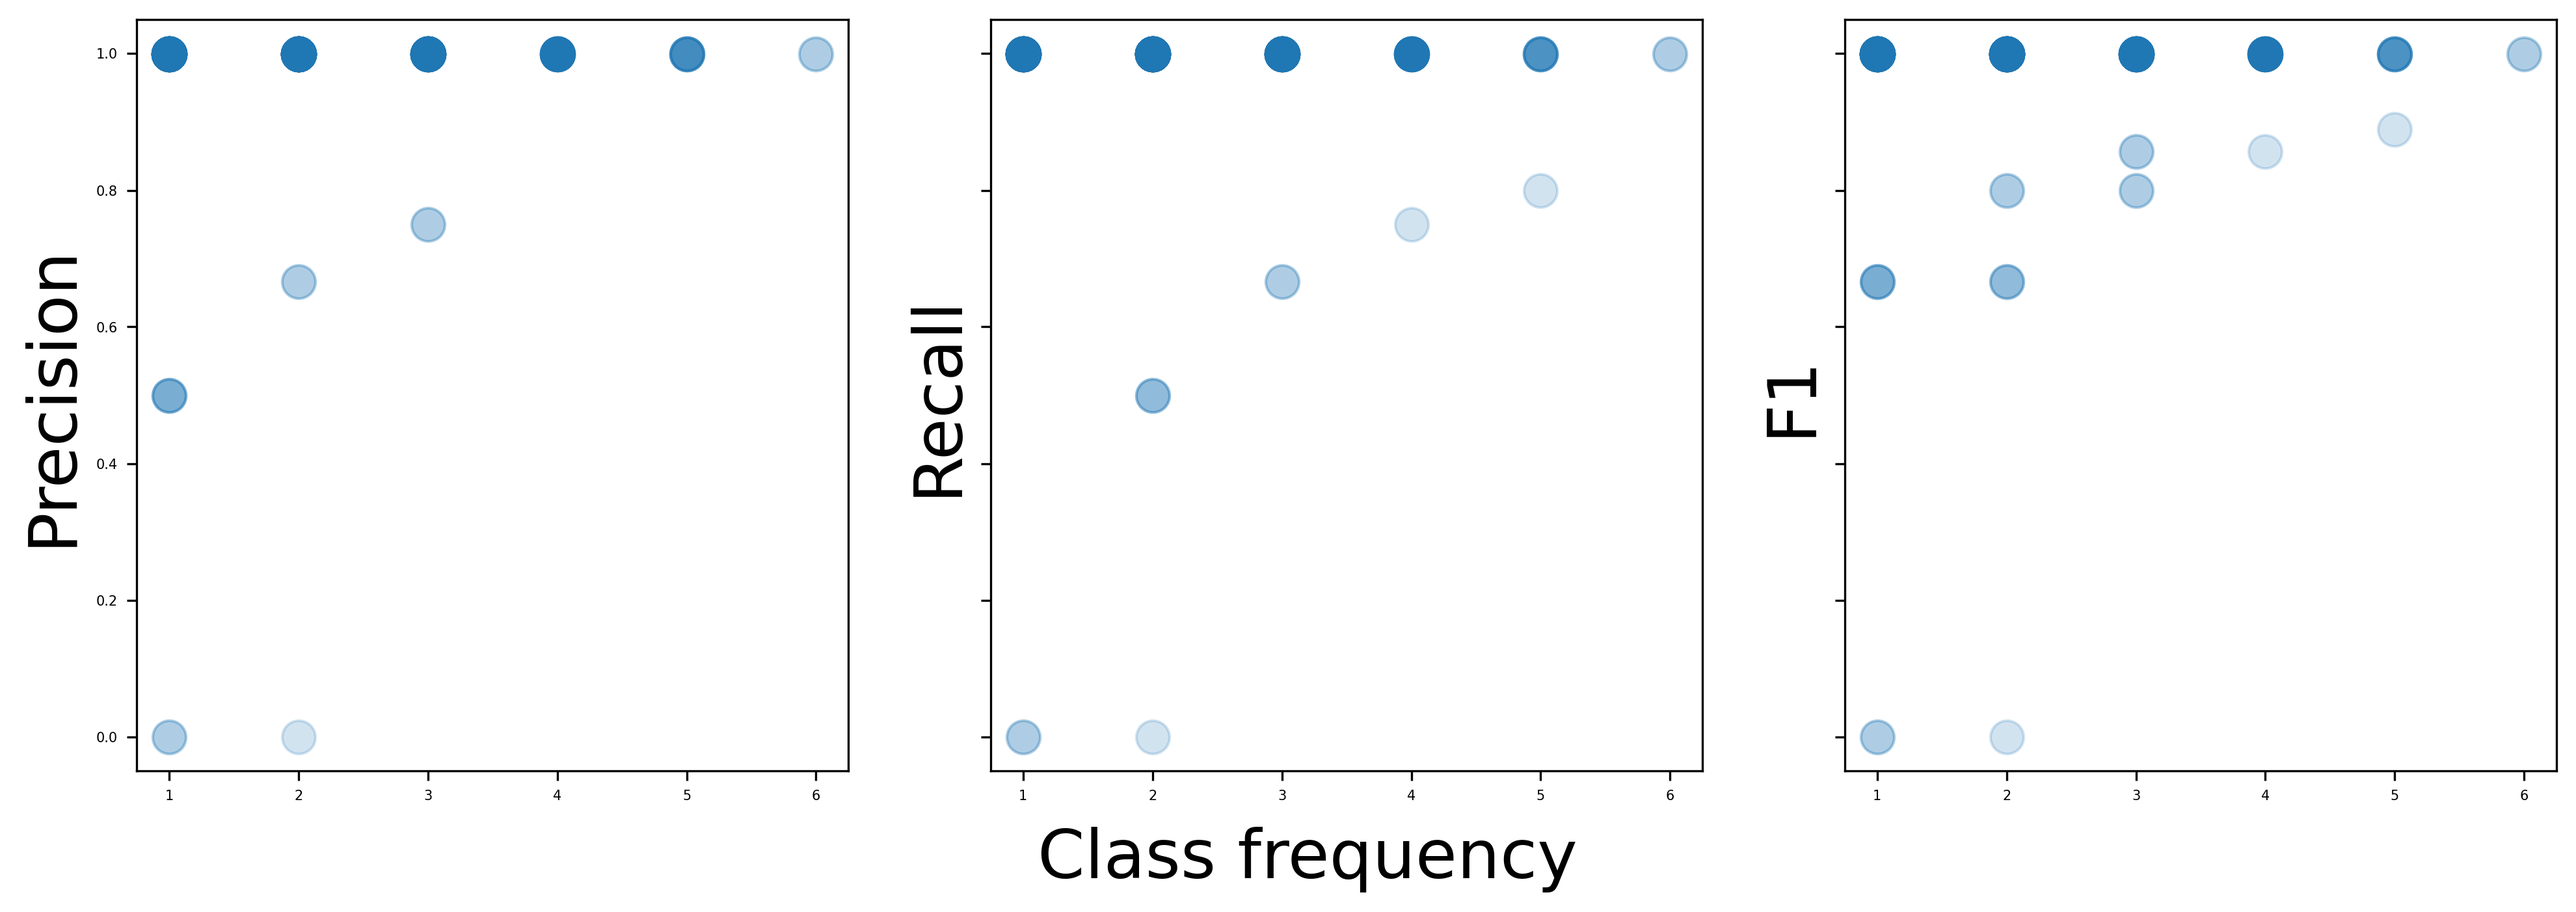
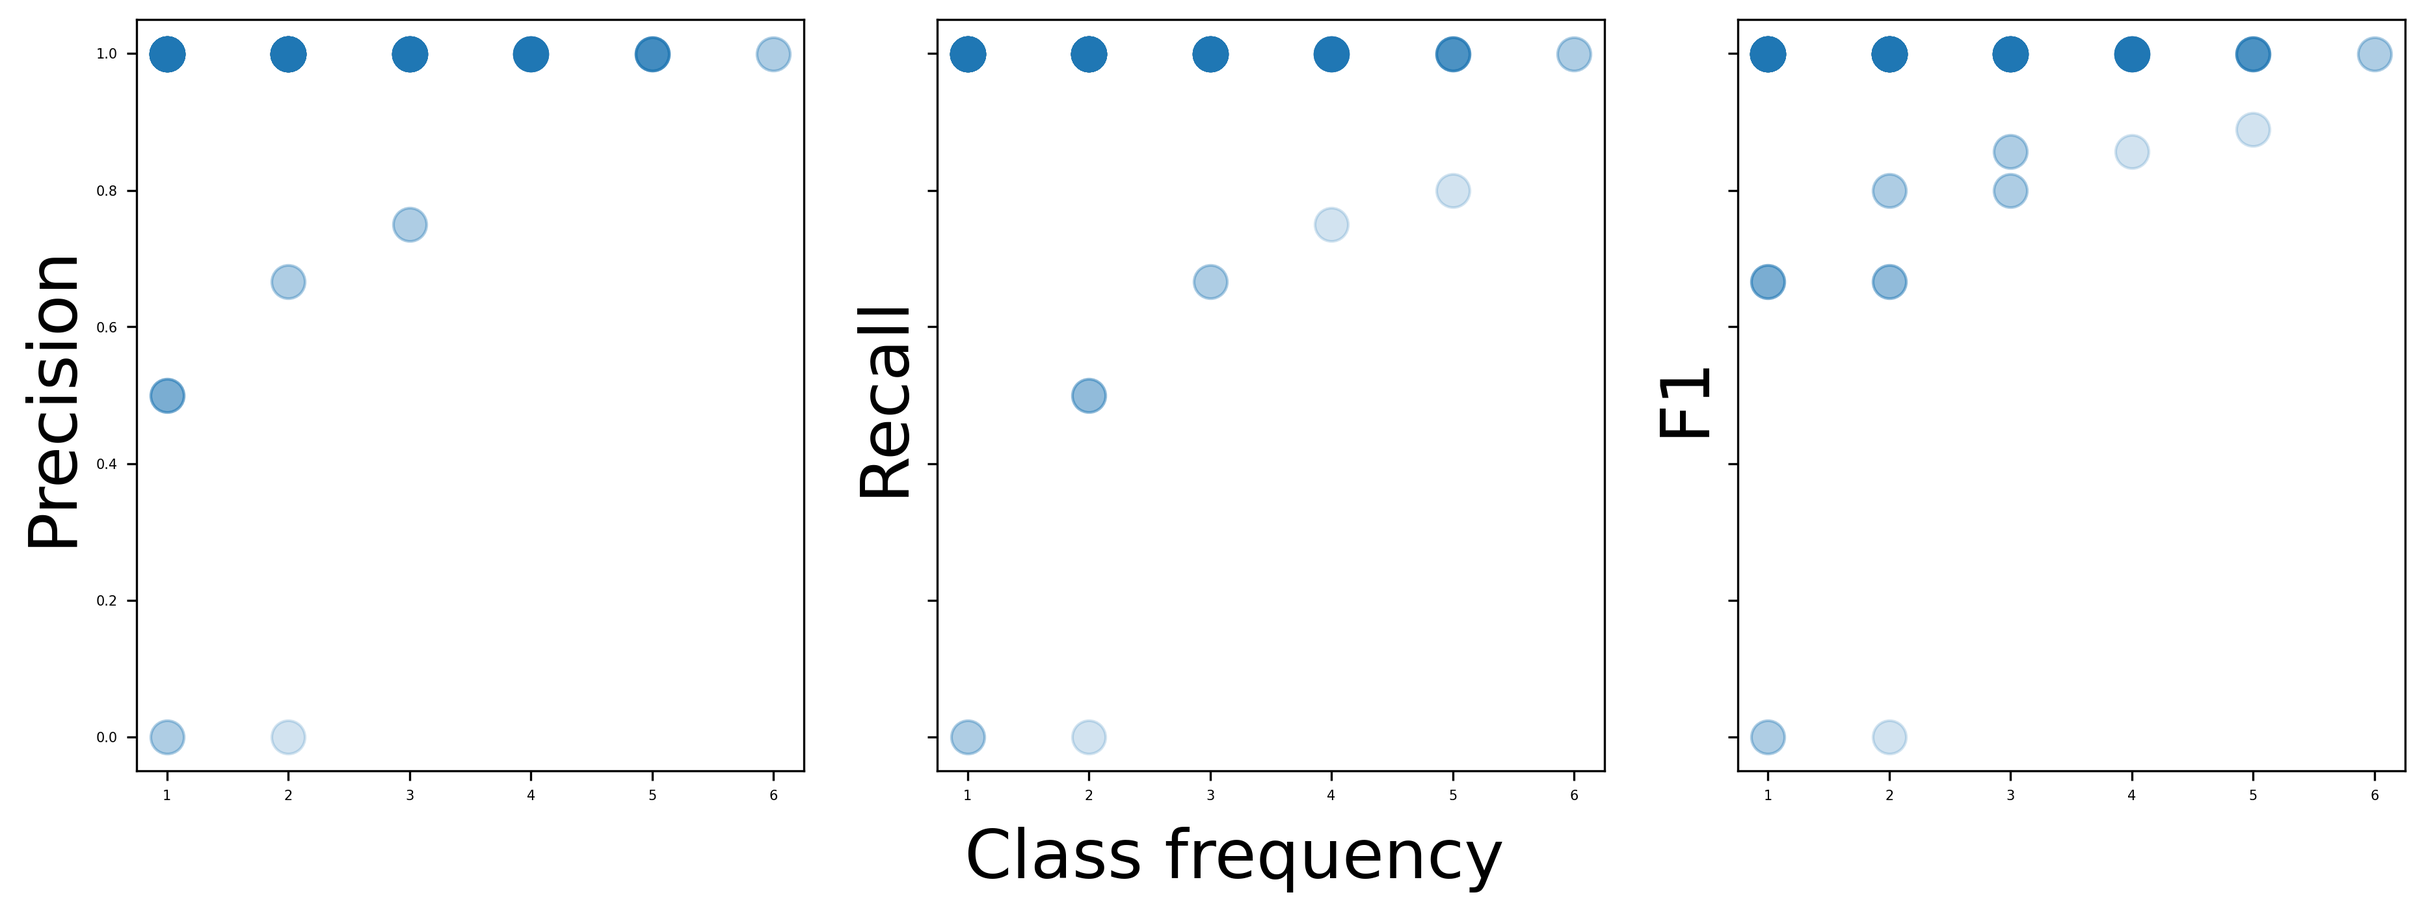
Refined figures

diff --git a/src/train_and_evaluate.py b/src/train_and_evaluate.py
@@ -413,7 +413,7 @@ def plot_error_distributions(outputs, labels, elements_to_keep, dims_to_keep='al
     plt.show()
     plt.close(fig)
 
-def plot_qq(outputs, labels, elements_to_keep, dims_to_keep='all', nrows=2, figsize=(14, 5), xlabel='Theoretical quantiles', ylabel='Prediction \n quantiles', path_to_save=None):
+def plot_qq(outputs, labels, elements_to_keep, dims_to_keep='all', nrows=2, figsize=(16, 5), xlabel='Theoretical quantiles', ylabel='Prediction \n quantiles', path_to_save=None):
 
     if dims_to_keep == 'all':
         dims_to_keep = list(range(len(elements_to_keep)))
@@ -462,7 +462,7 @@ def plot_qq(outputs, labels, elements_to_keep, dims_to_keep='all', nrows=2, figs
     plt.show()
     plt.close(fig)
 
-def plot_error_boxplot(outputs, labels, elements_to_keep, dims_to_keep='all', figsize=(10, 5), xlabel='', ylabel='Residual', path_to_save=None):
+def plot_error_boxplot(outputs, labels, elements_to_keep, dims_to_keep='all', figsize=(12, 5), xlabel='', ylabel='Residual', path_to_save=None):
 
     if dims_to_keep == 'all':
         dims_to_keep = list(range(len(elements_to_keep)))
@@ -475,10 +475,10 @@ def plot_error_boxplot(outputs, labels, elements_to_keep, dims_to_keep='all', fi
 
     residuals_all = outputs - labels
 
-    fig = plt.figure(figsize=figsize)
-    ax = sns.boxplot(data=residuals_all)
+    fig, ax = plt.subplots(figsize=figsize)
+    sns.boxplot(data=residuals_all, ax=ax)
     fig.text(0.52, 0.03, xlabel, ha='center', size=25)
-    fig.text(0.05, 0.5, ylabel, va='center', rotation='vertical', size=25)
+    fig.text(0.07, 0.5, ylabel, va='center', rotation='vertical', size=25)
     ax.set_xticklabels(elements_to_keep, size=25)
     ax.tick_params(axis='y', labelsize=5)
 
@@ -487,7 +487,7 @@ def plot_error_boxplot(outputs, labels, elements_to_keep, dims_to_keep='all', fi
     plt.show()
     plt.close(fig)
 
-def plot_error_violinplot(outputs, labels, elements_to_keep, dims_to_keep='all', figsize=(10, 5), xlabel='', ylabel='Residual', path_to_save=None):
+def plot_error_violinplot(outputs, labels, elements_to_keep, dims_to_keep='all', figsize=(12, 5), xlabel='', ylabel='Residual', path_to_save=None):
 
     if dims_to_keep == 'all':
         dims_to_keep = list(range(len(elements_to_keep)))
@@ -500,10 +500,10 @@ def plot_error_violinplot(outputs, labels, elements_to_keep, dims_to_keep='all',
 
     residuals_all = outputs - labels
 
-    fig = plt.figure(figsize=figsize)
-    ax = sns.violinplot(data=residuals_all)
+    fig, ax = plt.subplots(figsize=figsize)
+    sns.violinplot(data=residuals_all, ax=ax)
     fig.text(0.52, 0.03, xlabel, ha='center', size=25)
-    fig.text(0.05, 0.5, ylabel, va='center', rotation='vertical', size=25)
+    fig.text(0.07, 0.5, ylabel, va='center', rotation='vertical', size=25)
     ax.set_xticklabels(elements_to_keep, size=25)
     ax.tick_params(axis='y', labelsize=5)
 
@@ -575,7 +575,7 @@ def plot_correlation_heatmaps_for_target_data(prediction, elements_to_keep, data
     plt.close(fig)
 
 
-def plot_l1_error(outputs, labels, figsize=(10, 5), path_to_save=None):
+def plot_l1_error(outputs, labels, figsize=(12, 5), path_to_save=None):
 
     l2_error = np.sum(np.abs(outputs - labels), axis=1)
 
@@ -592,13 +592,13 @@ def plot_l1_error(outputs, labels, figsize=(10, 5), path_to_save=None):
     plt.show()
     plt.close(fig)
 
-def plot_l1_error_with_density(outputs, labels, figsize=(10, 5), path_to_save=None):
+def plot_l1_error_with_density(outputs, labels, figsize=(12, 5), path_to_save=None):
 
     l2_error = np.sum(np.abs(outputs - labels), axis=1)
 
     true_norm = np.sum(np.abs(labels), axis=1)
 
-    fig, ax = plt.subplots(1, figsize=(8, 5)) 
+    fig, ax = plt.subplots(figsize=figsize)
 
     #ax.plot(true_norm[~inside], l2_error[~inside], 'bo', mfc='none')
     ax.plot(true_norm, l2_error, 'bo', mfc='none')
@@ -621,8 +621,8 @@ def plot_l1_error_with_density(outputs, labels, figsize=(10, 5), path_to_save=No
         points = np.column_stack((true_norm, l2_error))
         inside |= level.contains_points(points)
 
-    plt.xlabel("Sum of true magnitudes", size=25)
-    plt.ylabel("L1 error of prediction", size=25)
+    fig.text(0.52, 0.03, "Sum of true magnitudes", ha='center', size=25)
+    fig.text(0.07, 0.5, "L1 error of prediction", va='center', rotation='vertical', size=25)
     plt.tick_params(axis='both', labelsize=5)
 
     if path_to_save:
@@ -680,13 +680,15 @@ def plot_topk_confusion(y_true, y_pred, top_k=20, figsize=(7, 5), path_to_save=N
     y_true_k = y_true[mask]
     y_pred_k = y_pred[mask]
 
-    cm = confusion_matrix(y_true_k, y_pred_k, labels=top_classes)
-
     plt.figure(figsize=figsize)
-    plt.imshow(cm, cmap=sns.cm.rocket_r)
 
-    plt.title(f"Top-{top_k} confusion matrix", size=25)
-    plt.xlabel("Predicted class", size=25)
+    cm = confusion_matrix(y_true_k, y_pred_k, labels=top_classes)
+    ax=sns.heatmap(cm, cmap=sns.cm.rocket_r, xticklabels=False, yticklabels=False, cbar=True)
+
+    #plt.imshow(cm, cmap=sns.cm.rocket_r)
+
+    #plt.title(f"Top-{top_k} confusion matrix", size=25)
+    plt.xlabel("Prediction's closest class", size=25)
     plt.ylabel("True class", size=25)
     plt.xticks([])
     plt.yticks([])
@@ -719,32 +721,15 @@ def plot_prf_distribution_subplots(y_true, y_pred, figsize=(16, 5), xlabel='Scor
         ax.tick_params(axis='both', labelsize=5)
 
     fig.text(0.5, 0.9, xlabel, ha='center', size=25)
-    fig.text(0.05, 0.5, ylabel, va='center', rotation='vertical', size=25)
+    fig.text(0.09, 0.5, ylabel, va='center', rotation='vertical', size=25)
 
     if path_to_save:
         plt.savefig(path_to_save+'prec_rec_f1_distributions.png', dpi=300, bbox_inches="tight")
     plt.show()
     plt.close()
 
-def plot_error_distribution(y_true, y_pred, figsize=(16, 5), path_to_save=None):
-    errors = y_true[y_true != y_pred]
-    error_counts = Counter(errors)
 
-    sorted_counts = sorted(error_counts.values(), reverse=True)
-
-    plt.figure(figsize=figsize)
-    plt.plot(sorted_counts)
-    plt.title("Error distribution (long tail)")
-    plt.xlabel("Class rank")
-    plt.ylabel("Number of errors")
-
-    if path_to_save:
-        plt.savefig(path_to_save+'error_distribution_classification.png', dpi=300, bbox_inches="tight")
-    plt.show()
-    plt.close()
-
-def plot_freq_vs_f1(y_true, y_pred, figsize=(16, 5), xlabel='Class frequency', path_to_save=None):
-
+def plot_freq_vs_f1(y_true, y_pred, figsize=(15, 5), xlabel='Class frequency', path_to_save=None):
 
     counts = Counter(y_true)
     labels = np.unique(y_true)
@@ -849,16 +834,17 @@ def compute_precision_and_recall(outputs_df):
 def get_sample_number_in_group(original_labels):
     return np.array(original_labels.apply(lambda x: int(x.split('_')[-1])).values)
 
-def plot_confusion_matrix(true_labels, closest_labels, normalization_in_conf_mat = None, figsize=(7.5, 5), path_to_save = None):
+def plot_confusion_matrix(true_labels, closest_labels, normalization_in_conf_mat = None, figsize=(5.5, 5), path_to_save = None):
 
     conf_mat = confusion_matrix(true_labels, closest_labels, 
                                 normalize=normalization_in_conf_mat)
 
-    ax=sns.heatmap(conf_mat, cmap=sns.cm.rocket_r, xticklabels=False, yticklabels=False)
+    plt.figure(figsize=figsize)
+    ax=sns.heatmap(conf_mat, cmap=sns.cm.rocket_r, xticklabels=False, yticklabels=False, cbar=False)
     ax.figure.axes[-1].yaxis.label.set_size(10)
     plt.ylabel('True class', size=25)
     plt.xlabel("Prediction's closest class", size=25)
-    plt.rcParams['figure.figsize'] = figsize
+    #plt.rcParams['figure.figsize'] = figsize
     plt.title('', 
               size=20, 
               wrap=True)

diff --git a/analysis/4_neural_network_validation.py b/analysis/4_neural_network_validation.py
@@ -161,38 +161,38 @@ print(torch.mean(difference, axis=0))
 # Significance of elements: Cu >> Mn > Al > Zn > Pb > S > Cr > Co >> all the others.
 
 # BASIC DIAGNOSTIC PLOTS
-# if mode == "training":
+if mode == "training":
 
-    # plot_pred_vs_gt(to_numpy(outputs), to_numpy(labels), ELEMENTS_TO_KEEP, dims_to_keep=dims_to_keep, nrows=nrows, xlabel='Logarithmed true value', ylabel='Logarithmed prediction', path_to_save=FIGURES_PATH)
+    plot_pred_vs_gt(to_numpy(outputs), to_numpy(labels), ELEMENTS_TO_KEEP, dims_to_keep=dims_to_keep, nrows=nrows, xlabel='Logarithmed true value', ylabel='Logarithmed prediction', path_to_save=FIGURES_PATH)
 
-    # plot_residuals(to_numpy(outputs), to_numpy(labels), ELEMENTS_TO_KEEP, dims_to_keep=dims_to_keep, nrows=nrows, xlabel='Logarithmed true value', path_to_save=FIGURES_PATH)
+    plot_residuals(to_numpy(outputs), to_numpy(labels), ELEMENTS_TO_KEEP, dims_to_keep=dims_to_keep, nrows=nrows, xlabel='Logarithmed true value', path_to_save=FIGURES_PATH)
 
-    # plot_error_distributions(to_numpy(outputs), to_numpy(labels), ELEMENTS_TO_KEEP, dims_to_keep=dims_to_keep, nrows=nrows, xlabel='Residual', ylabel='Count', path_to_save=FIGURES_PATH)
+    plot_error_distributions(to_numpy(outputs), to_numpy(labels), ELEMENTS_TO_KEEP, dims_to_keep=dims_to_keep, nrows=nrows, xlabel='Residual', ylabel='Count', path_to_save=FIGURES_PATH)
 
-#     plot_qq(to_numpy(outputs), to_numpy(labels), ELEMENTS_TO_KEEP, dims_to_keep=dims_to_keep, nrows=nrows, xlabel='Theoretical quantiles', ylabel='Prediction quantiles', path_to_save=FIGURES_PATH)
+    plot_qq(to_numpy(outputs), to_numpy(labels), ELEMENTS_TO_KEEP, dims_to_keep=dims_to_keep, nrows=nrows, xlabel='Theoretical quantiles', ylabel='Prediction quantiles', path_to_save=FIGURES_PATH)
 
 
-# if mode == "training_subset":
+if mode == "training_subset":
 
-#     plot_pred_vs_gt(to_numpy(outputs), to_numpy(labels), ELEMENTS_TO_KEEP, dims_to_keep=[1, 3, 4, 7, 9, 10], nrows=nrows, figsize=(14, 5), xlabel='Logarithmed true value', ylabel='Logarithmed prediction', path_to_save=FIGURES_PATH)
+    plot_pred_vs_gt(to_numpy(outputs), to_numpy(labels), ELEMENTS_TO_KEEP, dims_to_keep=[1, 3, 4, 7, 9, 10], nrows=nrows, figsize=(14, 5), xlabel='Logarithmed true value', ylabel='Logarithmed prediction', path_to_save=FIGURES_PATH)
 
-    # plot_residuals(to_numpy(outputs), to_numpy(labels), ELEMENTS_TO_KEEP, dims_to_keep=dims_to_keep, nrows=nrows, figsize=(8, 5), xlabel='Logarithmed true value', path_to_save=FIGURES_PATH)
+    plot_residuals(to_numpy(outputs), to_numpy(labels), ELEMENTS_TO_KEEP, dims_to_keep=dims_to_keep, nrows=nrows, figsize=(8, 5), xlabel='Logarithmed true value', path_to_save=FIGURES_PATH)
 
-    # plot_error_distributions(to_numpy(outputs), to_numpy(labels), ELEMENTS_TO_KEEP, dims_to_keep=dims_to_keep, nrows=nrows, figsize=(8, 5), xlabel='Residual', ylabel='Count', path_to_save=FIGURES_PATH)
+    plot_error_distributions(to_numpy(outputs), to_numpy(labels), ELEMENTS_TO_KEEP, dims_to_keep=dims_to_keep, nrows=nrows, figsize=(8, 5), xlabel='Residual', ylabel='Count', path_to_save=FIGURES_PATH)
 
-    # plot_qq(to_numpy(outputs), to_numpy(labels), ELEMENTS_TO_KEEP, dims_to_keep=dims_to_keep, nrows=nrows, figsize=(8, 5), xlabel='Theoretical quantiles', ylabel='Prediction quantiles', path_to_save=FIGURES_PATH)
+    plot_qq(to_numpy(outputs), to_numpy(labels), ELEMENTS_TO_KEEP, dims_to_keep=dims_to_keep, nrows=nrows, figsize=(8, 5), xlabel='Theoretical quantiles', ylabel='Prediction quantiles', path_to_save=FIGURES_PATH)
 
-# plot_error_boxplot(to_numpy(outputs), to_numpy(labels), ELEMENTS_TO_KEEP, dims_to_keep='all', xlabel='', ylabel='Residual', path_to_save=FIGURES_PATH)
+plot_error_boxplot(to_numpy(outputs), to_numpy(labels), ELEMENTS_TO_KEEP, dims_to_keep='all', xlabel='', ylabel='Residual', path_to_save=FIGURES_PATH)
 
-# plot_error_violinplot(to_numpy(outputs), to_numpy(labels), ELEMENTS_TO_KEEP, dims_to_keep='all', xlabel='', ylabel='Residual', path_to_save=FIGURES_PATH)
+plot_error_violinplot(to_numpy(outputs), to_numpy(labels), ELEMENTS_TO_KEEP, dims_to_keep='all', xlabel='', ylabel='Residual', path_to_save=FIGURES_PATH)
 
-# plot_correlation_heatmaps(to_numpy(outputs), to_numpy(labels), ELEMENTS_TO_KEEP, xlabel='', ylabel='Residual', cluster=True, path_to_save=FIGURES_PATH)
+plot_correlation_heatmaps(to_numpy(outputs), to_numpy(labels), ELEMENTS_TO_KEEP, xlabel='', ylabel='Residual', cluster=True, path_to_save=FIGURES_PATH)
 
-# plot_l1_error(to_numpy(outputs), to_numpy(labels), path_to_save=FIGURES_PATH)
+plot_l1_error(to_numpy(outputs), to_numpy(labels), path_to_save=FIGURES_PATH)
 
 plot_l1_error_with_density(to_numpy(outputs), to_numpy(labels), path_to_save=FIGURES_PATH)
 
-# plot_pca_projection(to_numpy(outputs), to_numpy(labels), path_to_save=FIGURES_PATH)
+plot_pca_projection(to_numpy(outputs), to_numpy(labels), path_to_save=FIGURES_PATH)
 
 
 
@@ -234,20 +234,20 @@ precision, recall = compute_precision_and_recall(outputs_df)
 y_true = outputs_df['Real sample_id']
 y_pred = outputs_df['Closest sample id']
 
-# plot_topk_confusion(y_true, y_pred, top_k=20, path_to_save=FIGURES_PATH)
+plot_topk_confusion(y_true, y_pred, top_k=20, path_to_save=FIGURES_PATH)
 
-# plot_prf_distribution_subplots(y_true, y_pred, path_to_save=FIGURES_PATH)
+plot_prf_distribution_subplots(y_true, y_pred, path_to_save=FIGURES_PATH)
 
-# plot_freq_vs_f1(y_true, y_pred, path_to_save=FIGURES_PATH)
+plot_freq_vs_f1(y_true, y_pred, path_to_save=FIGURES_PATH)
 
 
 # CLASSIFICATION-BASED STATISTICS AND VISUALISATIONS PART 2
 
 
-# plot_confusion_matrix(true_labels = outputs_df['Real sample_id'], 
-#                       closest_labels = outputs_df['Closest sample id'], 
-#                       normalization_in_conf_mat = None, 
-#                       path_to_save = FIGURES_PATH)
+plot_confusion_matrix(true_labels = outputs_df['Real sample_id'], 
+                      closest_labels = outputs_df['Closest sample id'], 
+                      normalization_in_conf_mat = None, 
+                      path_to_save = FIGURES_PATH)
 
 
 # Quality of prediction: confidence intervals
